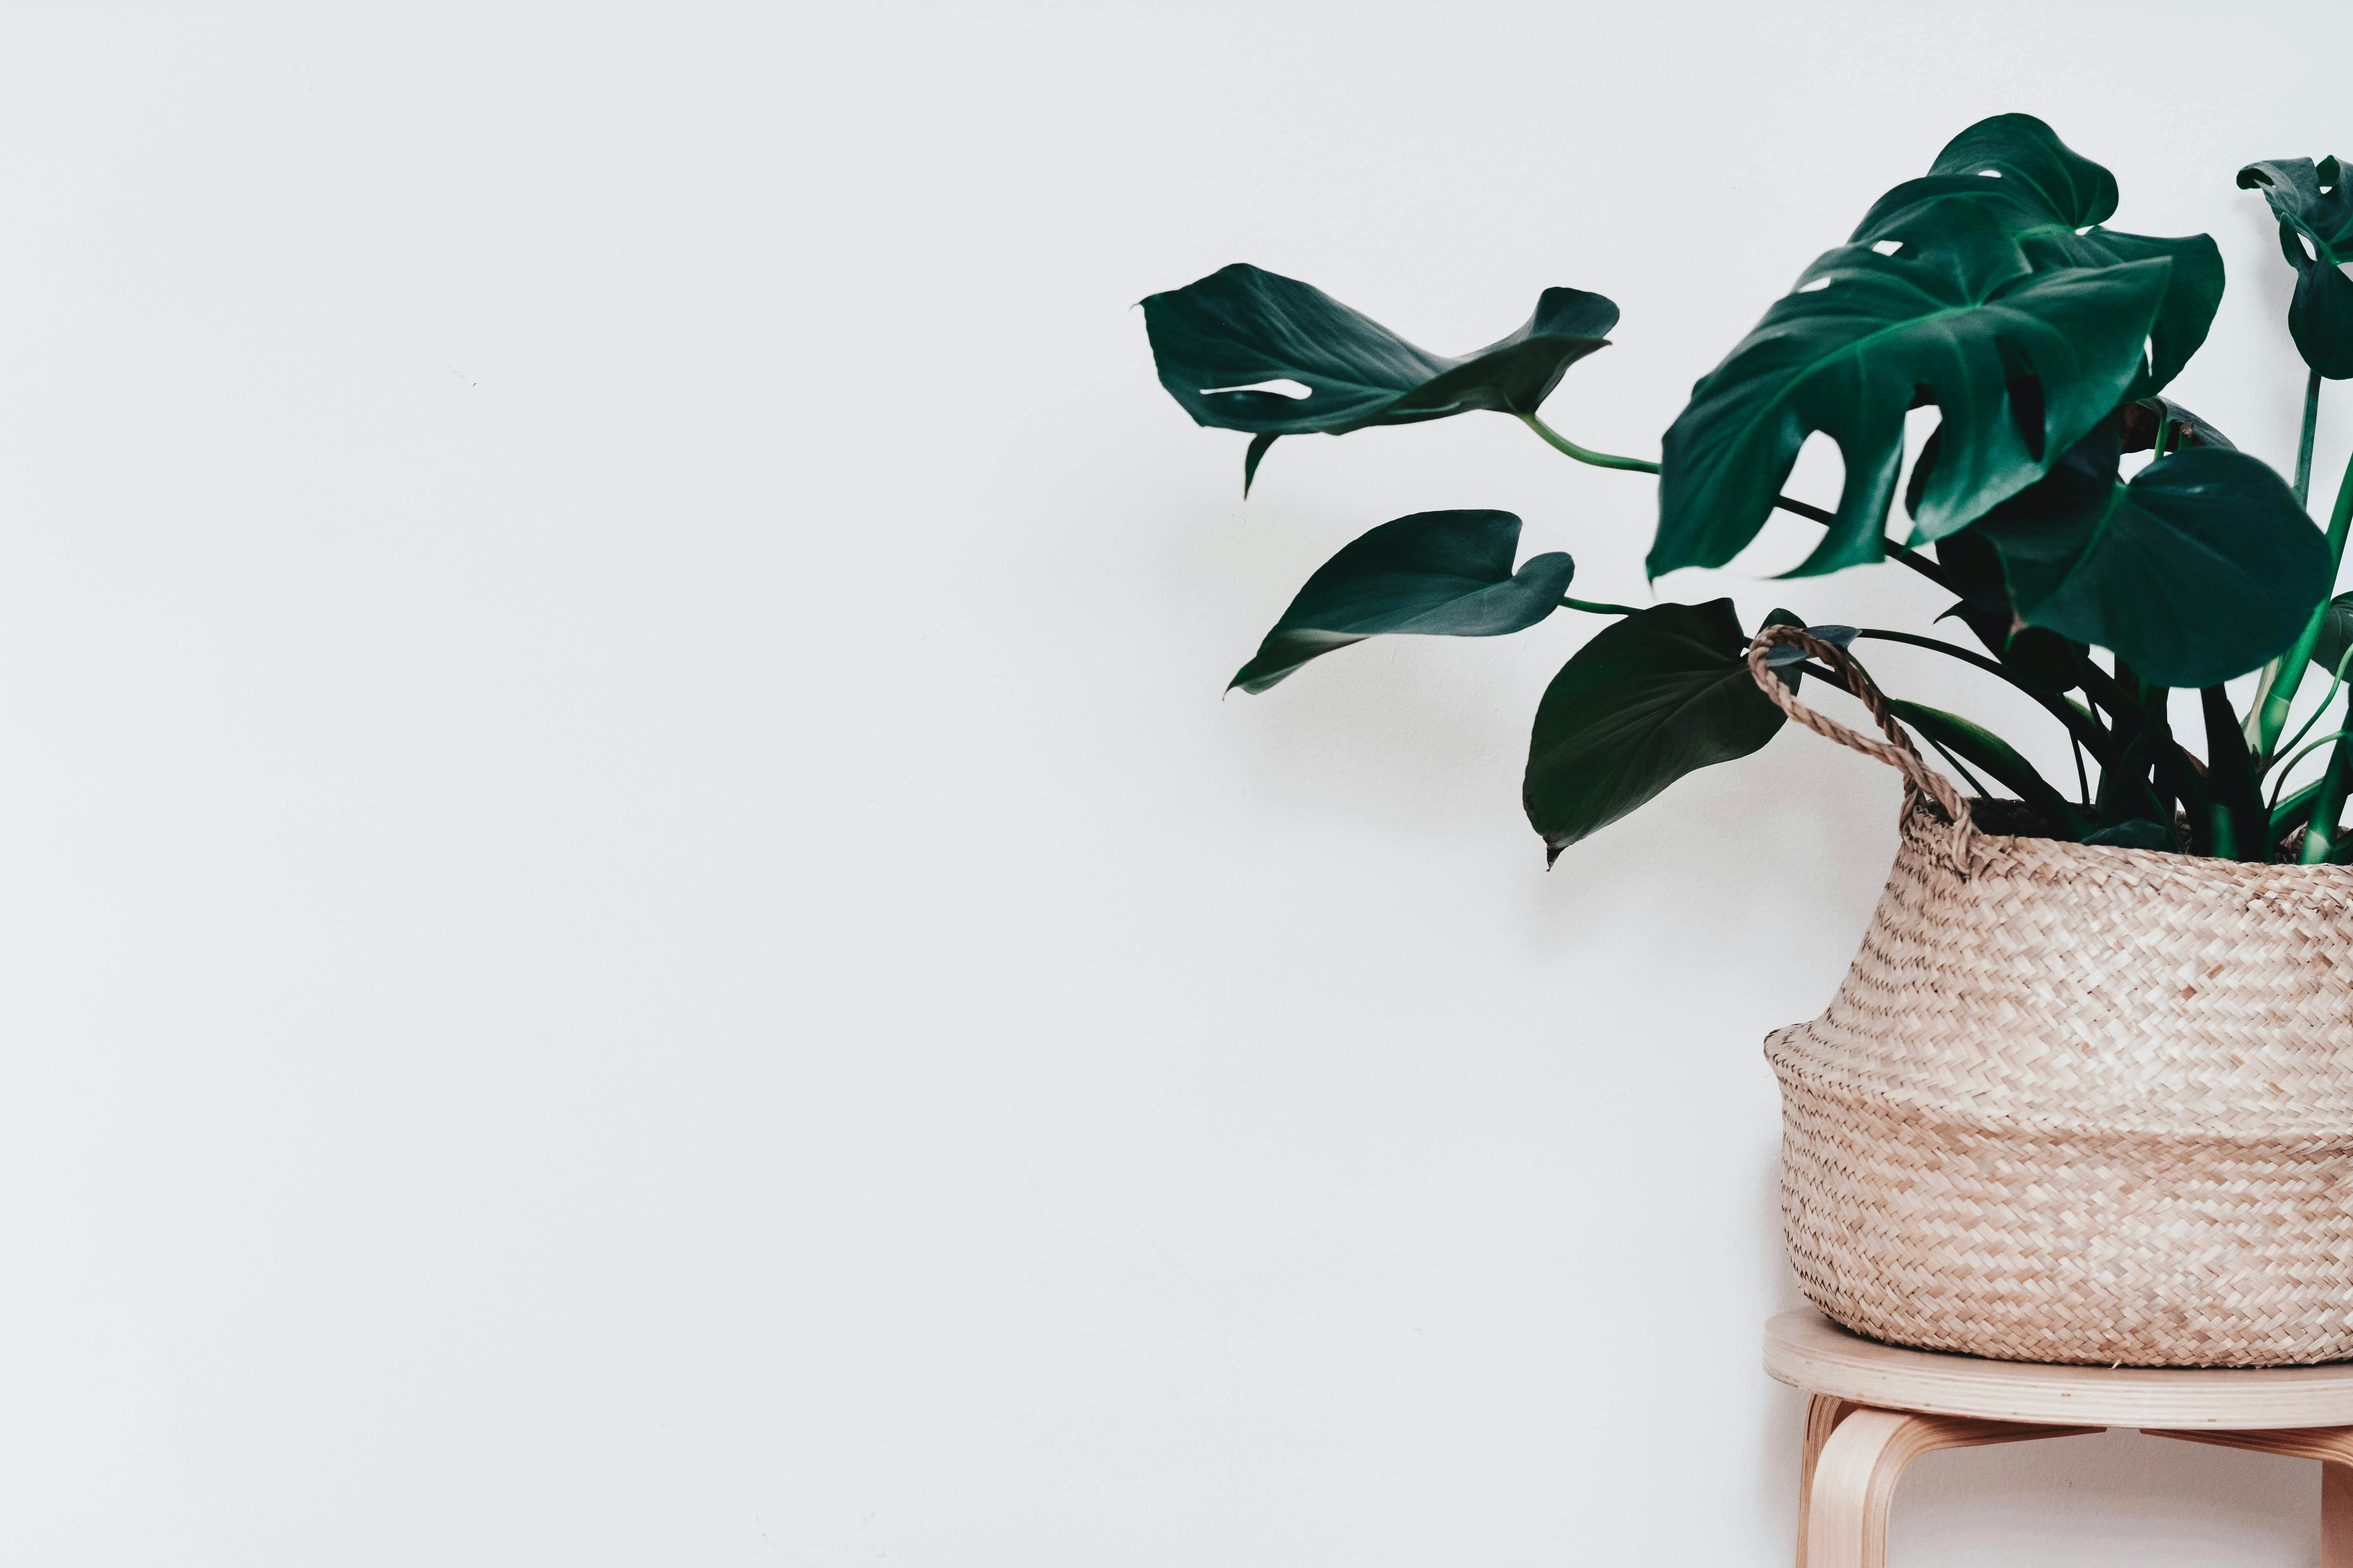
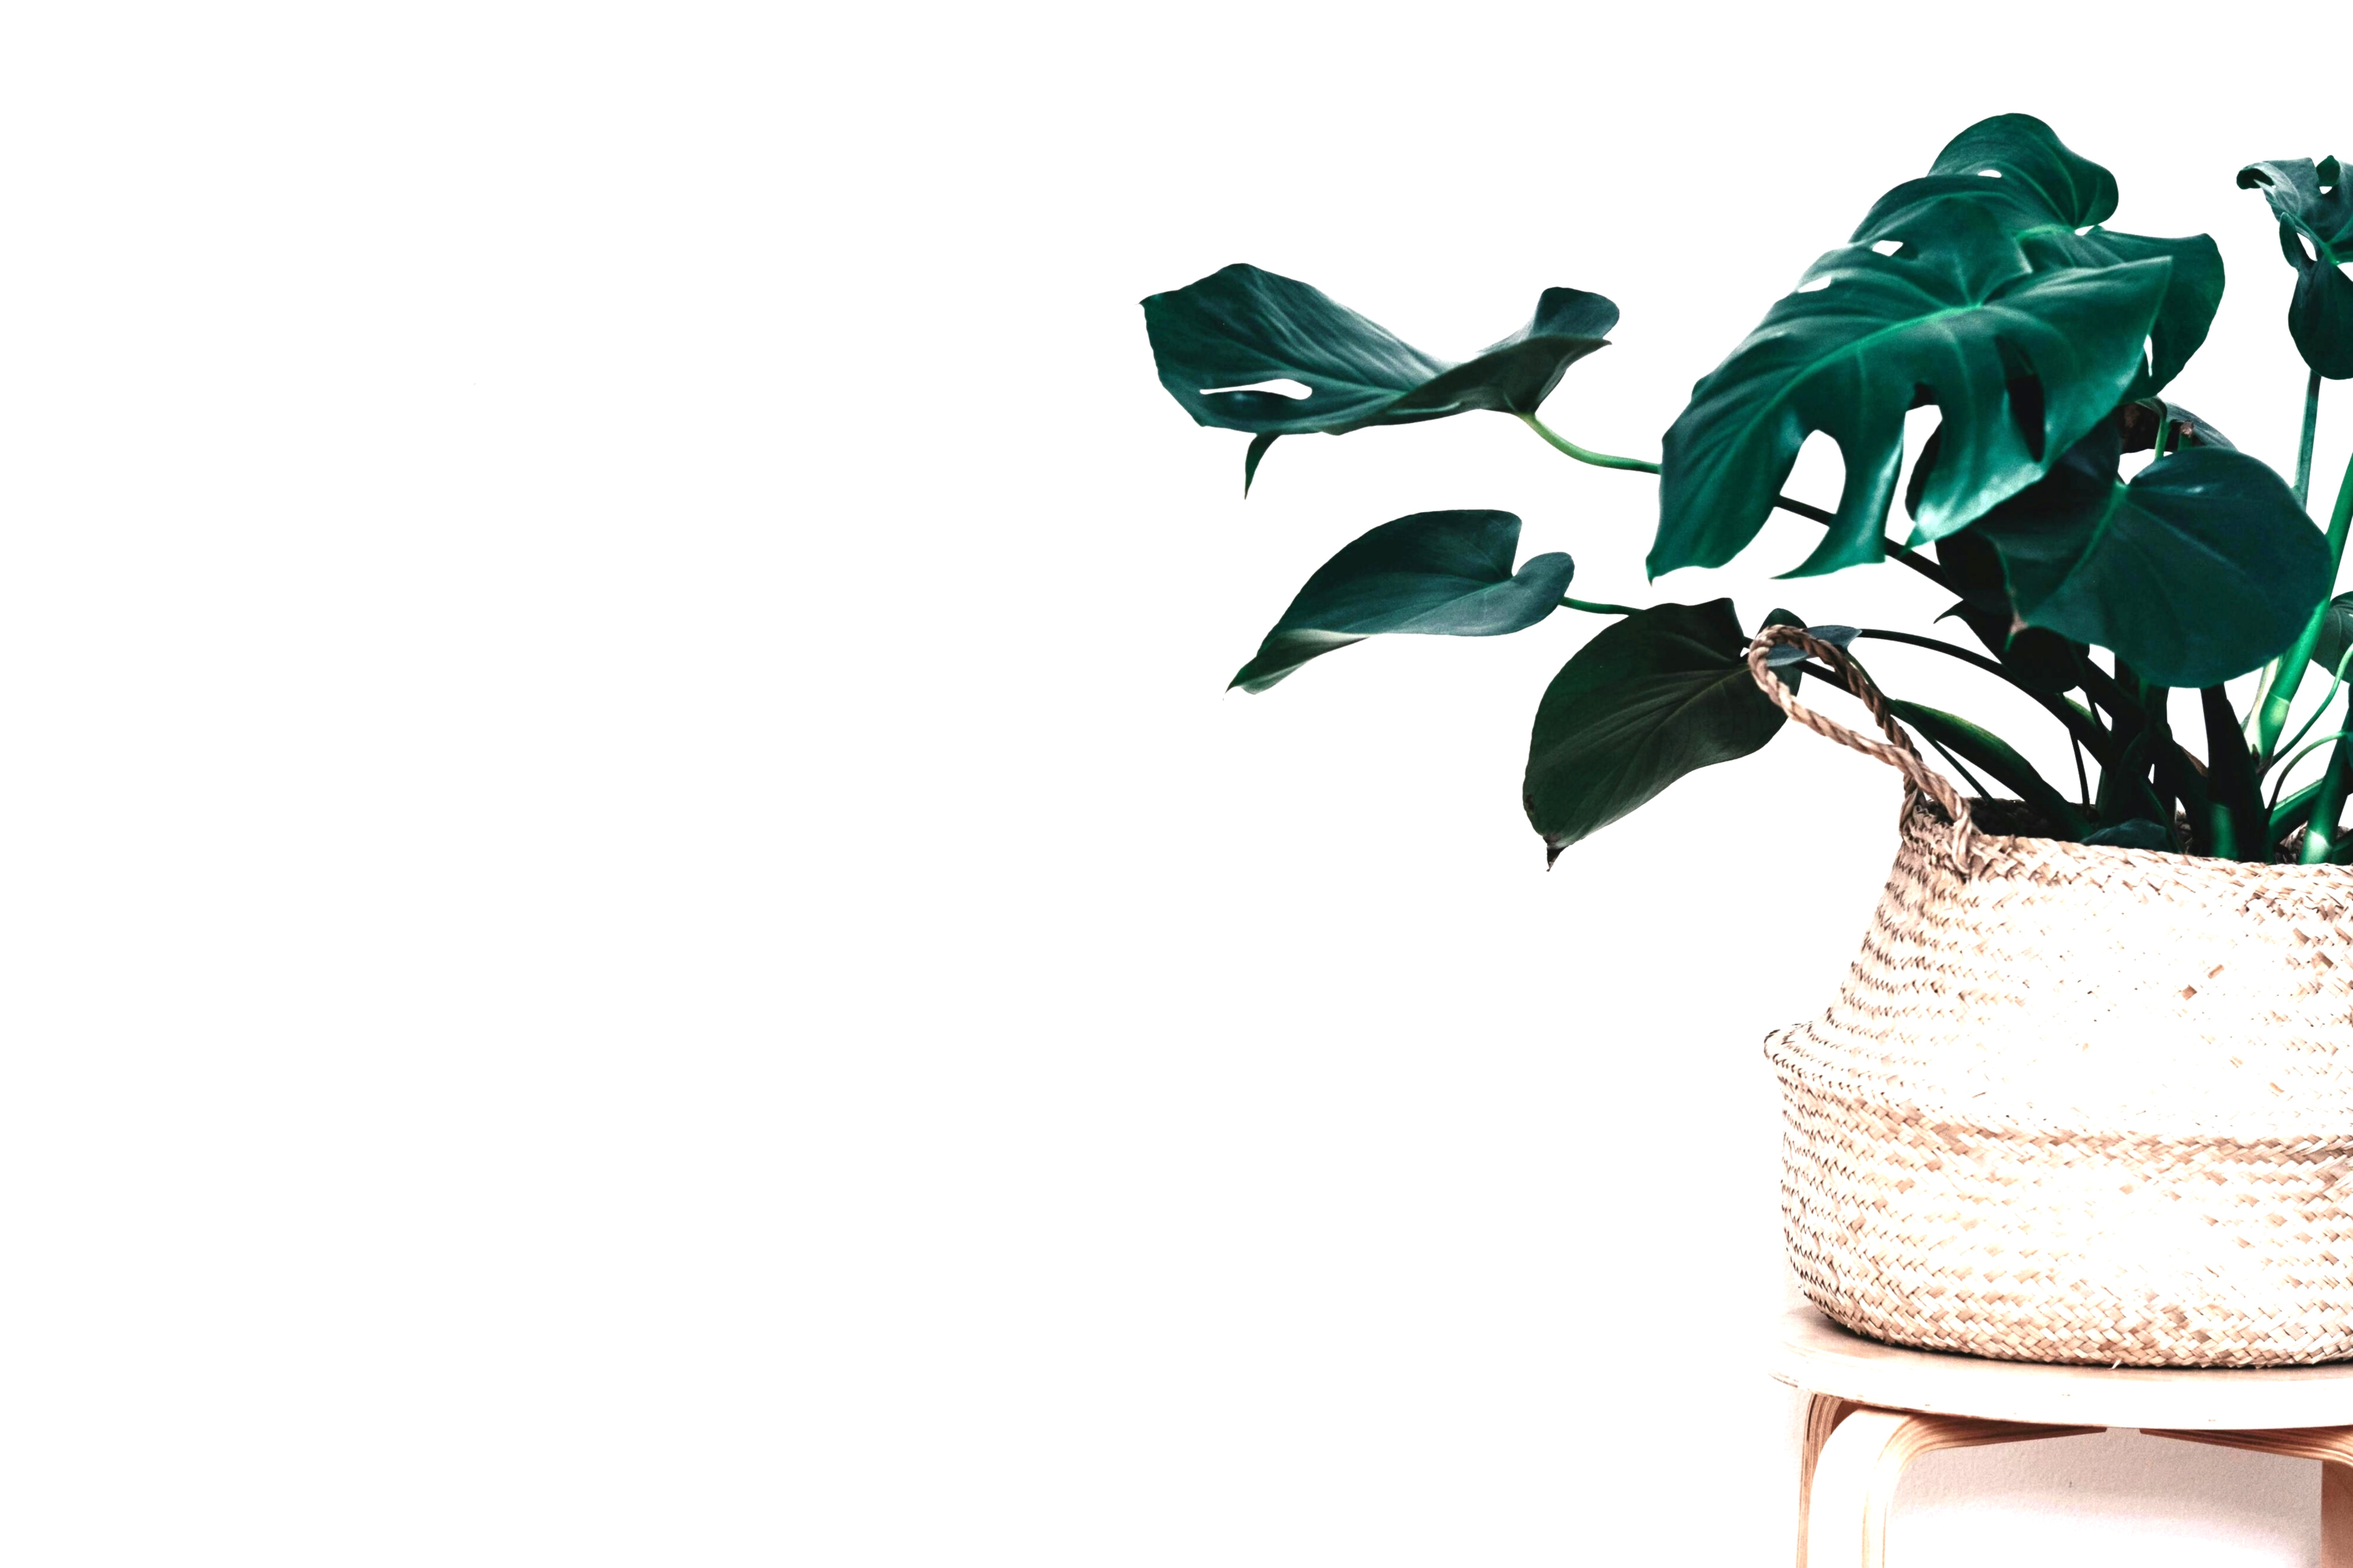
Hero section

diff --git a/index.html b/index.html
@@ -1,19 +1,101 @@
 <!DOCTYPE html>
 <html lang="en">
-<head>
+  <head>
     <meta charset="UTF-8">
     <meta name="viewport" content="width=device-width, initial-scale=1.0">
-    <title>Document</title>
-</head>
-<body>
+    <meta http-equiv="X-UA-Compatible" content="ie=edge">
+    <title>Plantyful Online Shop</title>
+    <link rel="stylesheet" href="style.css">
+<script src="https://kit.fontawesome.com/38680700e5.js" crossorigin="anonymous"></script>
+  </head>
+  <body>
     <header>
-
+      <div id="logo" class="img-container"><img src="Imagini/Plantiful-logo2.png" alt = "plant in a pot logo"></img></div>
+      <nav>
+        <a href="#despre_noi">Despre noi</a>
+        <a href="#produse">Produse</a> 
+        <a href="#contacte">Contacte</a>
+        <a href="#recenzii">Recenzii</a>
+        <a href ="#livrare" >Livrare</a>
+      </nav>
     </header>
     <main>
 
+
+      <section id="hero-section">
+        <article id="introducere">
+          <h1>Armonia naturii in casa ta!</h1>
+          <p>"Lorem ipsum dolor sit amet, consectetur adipiscing elit, sed do eiusmod tempor incididunt ut labore et dolore magna aliqua. Ut enim ad minim veniam, quis nostrud exercitation ullamco laboris nisi ut aliquip ex ea commodo consequat. Duis aute irure dolor in reprehenderit in voluptate velit esse cillum dolore eu fugiat nulla pariatur. Excepteur sint occaecat cupidatat non proident, sunt in culpa qui officia deserunt mollit anim id est laborum."</p>
+          <button type="button" id="vezi_produse">Vezi produse<i class="fa-solid fa-arrow-right"></i></button>
+        </article>
+      </section>
+
+
+
+
+
+
+
+
+
+
+  <section id="despre_fondatoare">
+    <article id="container_fondatoare">
+      <div id="rectangle"></div>
+      <div id="poza_fondatoarei">
+      <img src="https://images.pexels.com/photos/28965891/pexels-photo-28965891/free-photo-of-female-gardener-with-shovel-in-flower-garden.jpeg" alt="fondatoarea magazinului"></img>
+      </div>
+    </article>
+        <article id="introducere2">
+          <h1>Despre noi:</h1>
+          <p>"Lorem ipsum dolor sit amet, consectetur adipiscing elit, sed do eiusmod tempor incididunt ut labore et dolore magna aliqua. Ut enim ad minim veniam, quis nostrud exercitation ullamco laboris nisi ut aliquip ex ea commodo consequat. Duis aute irure dolor in reprehenderit in voluptate velit esse cillum dolore eu fugiat nulla pariatur. Excepteur sint occaecat cupidatat non proident, sunt in culpa qui officia deserunt mollit anim id est laborum. Ut enim ad minim veniam, quis nostrud exercitation ullamco laboris nisi ut aliquip ex ea commodo consequat. Duis aute irure dolor in reprehenderit in voluptate velit esse cillum dolore eu fugiat nulla pariatur. Excepteur sint occaecat cupidatat non proident, sunt in culpa qui officia deserunt mollit anim id est laborum.Lorem ipsum dolor sit amet, consectetur adipiscing elit, sed do eiusmod tempor incididunt ut labore et dolore magna aliqua. Ut enim ad minim veniam, quis nostrud exercitation ullamco laboris nisi ut aliquip ex ea commodo consequat. Duis aute irure dolor in reprehenderit in voluptate velit esse cillum dolore eu fugiat nulla pariatur. Excepteur sint occaecat cupidatat non proident, sunt in culpa qui officia deserunt mollit anim id est laborum. Ut enim ad minim veniam, quis nostrud exercitation ullamco laboris nisi ut aliquip ex ea commodo consequat. Duis aute irure dolor in reprehenderit in voluptate velit esse cillum dolore eu fugiat nulla pariatur. Excepteur sint occaecat cupidatat non proident, sunt in culpa qui officia deserunt mollit anim id est laborum. Duis aute irure dolor in reprehenderit in voluptate velit esse cillum dolore eu fugiat nulla pariatur. Excepteur sint occaecat cupidatat non proident, sunt in culpa qui officia deserunt mollit anim id est laborum. "</p>
+        </article>
+  </section>
+<h1>Categorii de produse</h1>
+<section id="categorii_produse">
+  <article  class="card" id="plante_camera">
+    <div class="div-img">
+      <img src="https://images.pexels.com/photos/28965891/pexels-photo-28965891/free-photo-of-female-gardener-with-shovel-in-flower-garden.jpeg" alt="fondatoarea magazinului"></img>
+    <div>
+      <h2>Plante de camera</h2>
+  </article>
+  <article class="card" id="plante_gradina">
+    <div class="div-img">
+      <img src="https://images.pexels.com/photos/28965891/pexels-photo-28965891/free-photo-of-female-gardener-with-shovel-in-flower-garden.jpeg" alt="fondatoarea magazinului"></img>
+    <div>
+      <h2>Plante de gradina</h2>
+  </article>
+  <article class="card" id="accesorii">
+    <div class="div-img">
+      <img src="https://images.pexels.com/photos/28965891/pexels-photo-28965891/free-photo-of-female-gardener-with-shovel-in-flower-garden.jpeg" alt="fondatoarea magazinului"></img>
+    <div>
+      <h2>Accesorii</h2>
+  </article>
+</section>
+    <h1>Produse</h1>
+    <section id="categorii_produse">
+  <article  class="card produs" id="plante_camera">
+    <div class="div-img">
+      <img src="https://images.pexels.com/photos/28965891/pexels-photo-28965891/free-photo-of-female-gardener-with-shovel-in-flower-garden.jpeg" alt="fondatoarea magazinului"></img>
+    <div>
+      <h3>Plaa</h3>
+  </article>
+  <article class="card produs" >
+    <div class="div-img">
+      <img src="https://images.pexels.com/photos/28965891/pexels-photo-28965891/free-photo-of-female-gardener-with-shovel-in-flower-garden.jpeg" alt="fondatoarea magazinului"></img>
+    <div>
+      <h3>hshshshshsh</h3>
+      <p>Lorem ipsum dolor sit amet, consectetur adipiscing elit, sed do eiusmod tempor incididunt ut labore et dolore magna aliqua.</p>
+  </article>
+  <article class="card produs">
+    <div class="div-img">
+      <img src="https://images.pexels.com/photos/28965891/pexels-photo-28965891/free-photo-of-female-gardener-with-shovel-in-flower-garden.jpeg" alt="fondatoarea magazinului"></img>
+    <div>
+      <h3>dhdhdhhdhdhdh</h3>
+  </article>
+</section>
     </main>
-    <footer>
-        
-    </footer>
-</body>
+    <footer></footer>
+    <script src="index.js"></script>
+  </body>
 </html>

diff --git a/style.css b/style.css
@@ -1,0 +1,207 @@
+@import url('https://fonts.googleapis.com/css2?family=Lato:ital,wght@0,100;0,300;0,400;0,700;0,900;1,100;1,300;1,400;1,700;1,900&display=swap');
+*{
+  margin: 0;
+  padding:0;
+}
+body{
+  font-family: Lato, sans-serif;
+  box-sizing: border-box;
+}
+
+/*Header cu logo si nav-bar*/
+
+header{
+  width: 100%;
+  display:flex;
+  gap: 20px;
+  background-color: #6D7656;
+
+  
+}
+#logo{
+  max-width: 100px;
+  max-height:100px;
+  justify-content: center;
+  align-items: center;
+  margin-left: 20px;
+}
+nav{
+  width: 100%;
+  display:flex;
+  justify-content: center;
+  align-items:center;
+  gap: 60px;
+  color:green;
+  font-size: 24px;
+  font-weight: 400;
+
+}
+
+
+a:link {
+  color: white;
+  text-decoration: none;
+}
+
+
+a:visited {
+  color: white;
+  text-decoration: none;
+}
+
+
+a:hover {
+  color: #BBBF9F;
+  text-decoration: underline;
+}
+
+
+a:active {
+  color: #BBBF9F;
+  text-decoration: underline;
+}
+
+/*Sectiunea 1- Hero Section*/
+
+
+#hero-section{
+  height:100vh;
+  background-image: url("Imagini/hero-plant.jpg");
+  background-position: center;
+  background-repeat: no-repeat;
+  background-size: cover;
+  display:flex;
+  flex-direction: row ;
+
+}
+
+
+h1{
+  font-size: 60px;
+  padding-top: 40px;
+  padding-left: 120px;
+  color:#374017;
+
+}
+
+ #despre_fondatoare{
+  background-color:white ;
+  display: flex;
+  height: 100vh;
+  
+}
+
+#introducere {
+  width: 50%;
+  height:auto;
+  display: flex;
+  justify-content: center;
+  flex-direction:column;
+  gap: 20px;
+  overflow: hidden;
+  
+ 
+  
+}
+
+img{
+  width: 100%;
+  height: 100%;
+  object-fit: cover;
+}
+#vezi_produse{
+  margin-top: 40px;
+  max-width:300px;
+  border-radius: 12px;
+  background-color: #374017;
+  margin-left: 120px; 
+ padding:20px;
+  color:white;
+  font-size:24px;
+  
+}
+
+i{
+  margin-left:8px;
+ 
+}
+
+#introducere2{
+  width:50%;
+  height:100vh;
+  display: flex;
+  flex-direction:column;
+  border: 1px solid black;
+  gap:20px;
+  overflow: hidden;
+  
+
+  
+}
+#despre_fondatoare{
+  
+  background-color:white;
+}
+#container_fondatoare{
+  position: relative;
+  width:50%;
+  height:auto;
+  border: 1px solid;
+  height:100%;
+}
+
+#rectangle{ 
+  position:absolute;
+  width: 400px;
+  height: 80%;
+  background-color:grey;
+  top: 10%;
+  right:25%;
+  box-shadow: 0 8px 6px -6px black;
+ 
+}
+#poza_fondatoarei{
+  width: 400px;
+  height: 80%;
+    position:absolute;
+    right:20%;
+    top: 15%;
+  box-shadow: 0 8px 6px -6px black;
+  }
+
+#introducere2 p, #introducere p{
+  padding-left: 120px;
+  padding-right: 150px;
+  line-height: 1.5;
+}
+
+#categorii_produse{
+  background-color:beige;
+  height: 100vh;
+  display:flex;
+  justify-content:center;
+  align-items:center;
+  gap:60px;
+  padding-top: 60px;
+  padding-bottom:60px;
+}
+
+.card{
+  background-color:white;
+  width:360px;
+  height: 520px;
+  display:flex;
+  flex-direction:column;
+}
+.div-img{
+  height:80%;
+}
+
+h3{
+  padding: 20px;
+  text-align:center;
+}
+
+.produs .div-img{
+  height:50%;
+}
